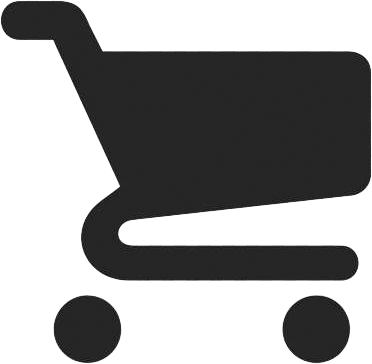
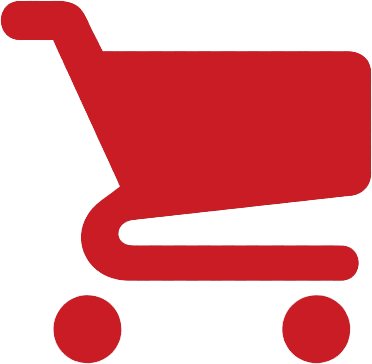
SingleProduct: renders. Some styling complete.

diff --git a/public/style.css b/public/style.css
@@ -1,63 +1,144 @@
 * {
   box-sizing: border-box;
   width: 100%;
-  font-family: sans-serif;
+  /* font-family: 'Barlow Semi Condensed', sans-serif; */
+  /* font-family: 'Frank Ruhl Libre', serif; */
+  font-family: 'Heebo', sans-serif;
+  /* font-family: 'Noto Serif', serif; */
+  /* font-family: 'Open Sans Condensed', sans-serif; */
+  /* font-family: 'Playfair Display', serif; */
+  /* font-family: 'Roboto', sans-serif; */
+  /* font-family: 'Rubik', sans-serif; */
 }
 
 body {
   position: absolute;
   height: 100vh;
-  padding: 0;
   margin: 0;
 }
 
 a {
   text-decoration: none;
+  color: #ca1c24;
+}
+
+a:hover {
+  color: #efefef;
 }
 
 label {
   display: block;
 }
 
-.navbar {
-  display: flex;
-  padding: 10px;
+.button {
+  background-color: #ca1c24;
+  color: #fff;
+  border-radius: 25%;
 }
 
-/* nav a {
-  display: inline-block;
-  margin: 1em;
-} */
+/* NAVBAR */
 
-.homepage-wrapper {
-  background-image: url('/images/tmp-bg.jpg');
-  background-position: top left;
-  background-repeat: no-repeat;
-  background-size: 100%;
-  width: 100%;
-  height: 100vh;
-  font-size: 3.5em;
+.navbar {
   display: flex;
-  justify-content: center;
+  position: fixed;
+  width: 100%;
+  /* opacity:1; */
+  z-index: 2;
+  font-size: 1.2em;
+}
+
+.background-overlay {
+  background-color: rgb(255, 255, 255, 0.8);
+  display: flex;
   align-items: center;
+  justify-content: end;
+  /* height: 100%; */
+  z-index: 1;
+}
+
+#logo {
+  padding-left: 5em;
+  height: 100px;
+}
+
+.menu-items li {
+  list-style-type: none;
+  padding: none;
 }
 
 nav {
-  padding-right: 10px;
+  display: flex;
+}
+
+nav a {
+  /* display: inline-block; */
+  /* margin: 1em; */
+  color: #ca1c24;
+}
+
+nav a:hover {
+  color: #000;
+}
+
+nav a:visited {
+  color: #ca1c24;
 }
 
 #shopping-cart {
-  width: 20px;
+  width: 100px;
 }
 
-form div {
-  margin: 1em;
-  display: inline-block;
+/* FOOTER */
+
+#footer-menu {
+  display: flex;
+  justify-content: flex-start;
+}
+
+#footer-menu li {
+  list-style-type: none;
+  padding: none;
+}
+
+/* CONTENT */
+
+.content-wrapper {
+  padding-top: 10%;
+  padding-top: 20%;
+  padding-right: 20%;
+  justify-content: center;
+}
+
+/* HOMEPAGE */
+
+.homepage-wrapper {
+  background: url('/images/puzzle-background.jpg') no-repeat center center fixed;
+  background-size: 100%;
+  height: 100vh;
+  font-size: 3.5em;
+  display: flex;
+  flex-direction: column;
+  justify-content: center;
+  align-items: center;
+  padding-left: 4em;
+  color: #fff;
+  font-family: 'Frank Ruhl Libre', serif;
+}
+
+/* ALL PRODUCTS */
+
+.products-wrapper {
+  display: flex;
+  justify-content: center;
+  padding-top: 200px;
 }
 
 .products {
   display: flex;
   justify-content: center;
+  padding-top: 10%;
+  padding-top: 0%;
+  padding-right: 20%;
   flex-wrap: wrap;
   width: 100%;
 }
@@ -77,8 +158,9 @@ form div {
   /**/
 }
 
-.content-wrapper {
-  display: flex;
+form div {
+  margin: 1em;
+  display: inline-block;
 }
 
 .log-in-sign-up-wrapper {
@@ -98,8 +180,8 @@ form div {
   border: 1px solid black;
 }
 
-#all-products {
+/* #all-products {
   width: calc(50% - 20px);
   padding: 20px;
   border: 1px solid black;
-}
+} */

diff --git a/client/components/navbar.js b/client/components/navbar.js
@@ -6,36 +6,56 @@ import {logout} from '../store'
 
 const Navbar = ({handleClick, isLoggedIn}) => (
   <div className="navbar">
-    <div id="logo">
-      <Link to="/">
-        <h1>Repuzzle</h1>
-      </Link>
+    <div className="background-overlay">
+      <div id="logo">
+        <Link to="/">
+          <img src="/images/logo-repuzzle.png" />
+        </Link>
+      </div>
+      <nav>
+        {isLoggedIn ? (
+          <div>
+            <ul className="menu-items">
+              {/* The navbar will show these links after you log in */}
+              <li>
+                <Link to="/products">All Products</Link>
+              </li>
+              <li>
+                <Link to="/home">Account Home</Link>
+              </li>
+              <li>
+                <a href="#" onClick={handleClick}>
+                  Logout
+                </a>
+              </li>
+              <li>
+                <Link to="/shopping_cart">
+                  <img id="shopping-cart" src="/images/shopping-cart.png" />
+                </Link>
+              </li>
+            </ul>
+          </div>
+        ) : (
+          <div>
+            <ul className="menu-items">
+              {/* The navbar will show these links before you log in */}
+              <li>
+                <Link to="/products">All Products</Link>
+              </li>
+              <li>
+                <Link to="/login">Login</Link>
+              </li>
+              <li>
+                <Link to="/signup">Sign Up</Link>
+              </li>
+            </ul>
+            <Link to="/shopping_cart">
+              <img id="shopping-cart" src="/images/shopping-cart.png" />
+            </Link>
+          </div>
+        )}
+      </nav>
     </div>
-    <nav>
-      {isLoggedIn ? (
-        <div className="menu-item">
-          {/* The navbar will show these links after you log in */}
-          <Link to="/products">All Products</Link>
-          <Link to="/home">Account Home</Link>
-          <a href="#" onClick={handleClick}>
-            Logout
-          </a>
-          <Link to="/shopping_cart">
-            <img id="shopping-cart" src="/images/shopping-cart.png" />
-          </Link>
-        </div>
-      ) : (
-        <div className="menu-item">
-          {/* The navbar will show these links before you log in */}
-          <Link to="/products">All Products</Link>
-          <Link to="/login">Login</Link>
-          <Link to="/signup">Sign Up</Link>
-          <Link to="/shopping_cart">
-            <img id="shopping-cart" src="/images/shopping-cart.png" />
-          </Link>
-        </div>
-      )}
-    </nav>
     {/* <hr /> */}
   </div>
 )

diff --git a/client/components/SingleProduct.js b/client/components/SingleProduct.js
@@ -3,7 +3,7 @@ import {connect} from 'react-redux'
 
 import {Link} from 'react-router-dom'
 
-import {ProductDetail} from './ProductDetail'
+import ProductDetail from './ProductDetail'
 import {fetchSingleProduct} from '../store/singleproduct'
 
 export class SingleProduct extends React.Component {
@@ -22,10 +22,22 @@ export class SingleProduct extends React.Component {
     console.log('this.props ', this.props)
     console.log('product ', product)
 
-    if (typeof product === undefined) {
-      return <h2>Loading...</h2>
+    if (product.length < 1) {
+      console.log('loading')
+      return (
+        <div className="content-wrapper">
+          <h2>Loading...</h2>
+        </div>
+      )
     } else {
-      return <div>Rendering</div>
+      return (
+        <div className="content-wrapper">
+          <div>Rendering</div>
+          <div id="single-product">
+            <ProductDetail key={product.id} product={product} />
+          </div>
+        </div>
+      )
     }
 
     //

diff --git a/public/index.html b/public/index.html
@@ -4,6 +4,8 @@
     <meta charset='utf-8'>
     <meta name='viewport' content='width=device-width initial-scale=1.0'>
     <title>Repuzzle</title>
+    <link rel="preconnect" href="https://fonts.gstatic.com">
+<link href="https://fonts.googleapis.com/css2?family=Barlow+Semi+Condensed&family=Frank+Ruhl+Libre&family=Heebo&family=Noto+Serif:wght@700&family=Open+Sans+Condensed:wght@300&family=Playfair+Display&family=Roboto:wght@300&family=Rubik&display=swap" rel="stylesheet">
     <link rel="stylesheet" href="/style.css" />
     <script defer src="/bundle.js"></script>
   </head>

diff --git a/client/components/Footer.js b/client/components/Footer.js
@@ -1,11 +1,19 @@
 import React from 'react'
+import {Link} from 'react-router-dom'
 
 const Footer = () => {
   return (
     <div>
       <footer>
-        THIS IS FOR FOOTER!!
-        <h5>© 2020 Corn.pop</h5>
+        <ul id="footer-menu">
+          <li>
+            <Link to="/products">All Products</Link>
+          </li>
+          <li>
+            <Link to="/shopping_cart">Shopping Cart</Link>
+          </li>
+          <li>© 2020 Corn.pop</li>
+        </ul>
       </footer>
     </div>
   )

diff --git a/client/components/AllProducts.js b/client/components/AllProducts.js
@@ -24,9 +24,9 @@ export class AllProducts extends React.Component {
     const {products} = this.props.products
 
     return (
-      <div>
-        <h2>All Products</h2>
+      <div className="content-wrapper">
         <div className="products">
+          <h2>All Products</h2>
           {products.length < 1
             ? 'No Products'
             : products.map(product => (

diff --git a/client/components/HomePage.js b/client/components/HomePage.js
@@ -3,7 +3,8 @@ import React from 'react'
 const HomePage = props => {
   return (
     <div className="homepage-wrapper">
-      Welcome to Repuzzle! Browse our selection!
+      <span>Tired of your old board games?</span>
+      <span>Repuzzle them!</span>
     </div>
   )
 }

diff --git a/client/store/singleproduct.js b/client/store/singleproduct.js
@@ -21,7 +21,7 @@ export const fetchSingleProduct = productId => {
     }
   }
 }
-const initialState = {}
+const initialState = []
 
 export default function singleProductReducer(state = initialState, action) {
   switch (action.type) {
